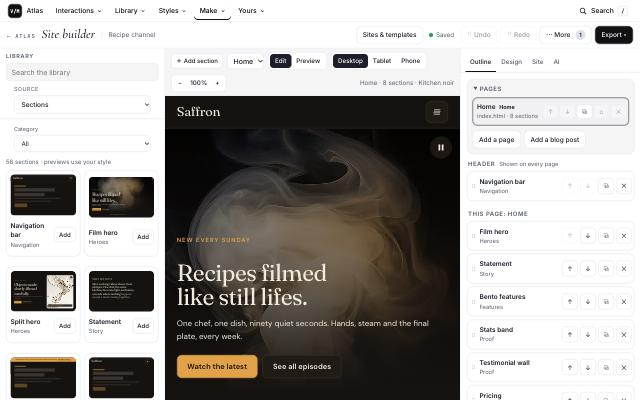
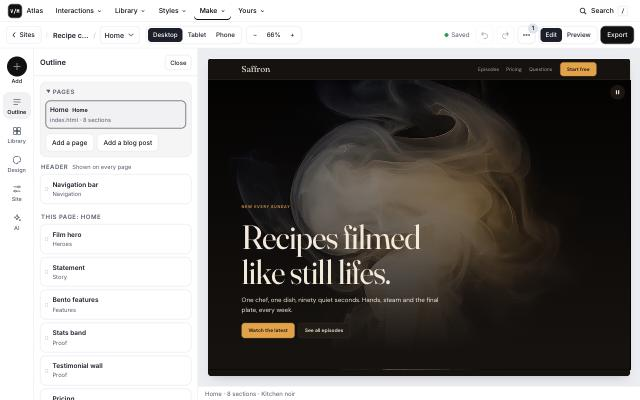
Site builder: desktop editor rebuilt around the page
The phone layout was already page-first; the desktop editor was three fixed columns under
three stacked bars. It now follows the same model. Nothing was removed.

- One top bar: Sites, site name, page picker, widths and zoom, saved, undo, redo, more,
  Edit/Preview, Export
- A rail (Add, Outline, Library, Design, Site, AI) opens one panel at a time; pressing the
  open one closes it
- The selected section's form is its own edit panel: in place of the outline under 1600
  wide, a right-hand column from 1600, a sheet on a phone
- The page is always laid out at its true width (1280 for Desktop) and scaled to fit;
  the zoom buttons set a fixed zoom, clicking the figure returns to fit
- Row buttons show for the row you are on; the status line sits under the page
- New: builder/workbench.css. Audit: tenth pass

diff --git a/site/page-builder.html b/site/page-builder.html
@@ -4,23 +4,24 @@
 <link rel="preconnect" href="https://fonts.googleapis.com"><link rel="preconnect" href="https://fonts.gstatic.com" crossorigin>
 <link rel="stylesheet" href="https://fonts.googleapis.com/css2?family=Inter:wght@400;500;600&family=JetBrains+Mono:wght@400;500&family=Cormorant+Garamond:ital,wght@0,500;1,500&display=swap">
 <link rel="icon" href="assets/favicon.svg" type="image/svg+xml">
-<link rel="stylesheet" href="builder/builder.css"><link rel="stylesheet" href="builder/ux.css">
+<link rel="stylesheet" href="builder/builder.css"><link rel="stylesheet" href="builder/ux.css"><link rel="stylesheet" href="builder/workbench.css">
 <meta property="og:type" content="website"><meta property="og:site_name" content="Visual &amp; Motion Atlas"><meta property="og:title" content="Site builder · Visual & Motion Atlas"><meta property="og:description" content="Build a whole multi-page website from 56 sections, 70 UI components, the interactions shelf, live backgrounds, icon families and theme-kit assets. Start from any of 26 templates or 48 design-system styles, with 82 photographs, then export one HTML file or a ZIP."><meta property="og:url" content="https://motionatlas-ten.vercel.app/page-builder"><meta property="og:image" content="https://motionatlas-ten.vercel.app/assets/og-atlas.jpg"><meta name="twitter:card" content="summary_large_image">
 <link rel="canonical" href="https://motionatlas-ten.vercel.app/page-builder">
 <style id="sbPre">html{--sb-h:calc(44px + env(safe-area-inset-top,0px))}body{padding-top:var(--sb-h)}html:not(.sbReady) body::before{content:"";position:fixed;top:0;left:0;right:0;height:var(--sb-h);background:#fff;border-bottom:1px solid #e8e8ea;z-index:2147483000}@media print{body{padding-top:0}}</style><script src="site-nav-data.js" defer></script><script src="site-bar.js" defer></script>
 </head><body data-pane="page"><noscript><nav id="sbNo" aria-label="Atlas" style="position:fixed;top:0;left:0;right:0;height:44px;box-sizing:border-box;z-index:2147483000;background:#fff;border-bottom:1px solid #e8e8ea;padding:12px 16px;font:500 14px/20px system-ui,sans-serif;white-space:nowrap;overflow:auto"><a style="color:#111;font-weight:700;margin-right:16px" href="atlas.html">Atlas</a><a style="color:#111;margin-right:16px" href="tools.html">Tools</a><a style="color:#111;margin-right:16px" href="atlas.html#browse">Catalogue</a><a style="color:#111" href="atlas.html#projects">My projects</a></nav></noscript>
 <div class="app">
-<header><div class="brandline"><a href="atlas.html" id="backLink">← Atlas</a><h1>Site builder</h1><span class="siteTitle" id="siteTitle" title="Current site"></span></div>
+<header class="wbTop"><div class="wbLeft"><button class="btn wbBack" id="tplBtn" type="button" aria-haspopup="dialog" aria-label="Sites and templates"><svg viewBox="0 0 24 24" width="20" height="20" fill="none" stroke="currentColor" stroke-width="1.7" stroke-linecap="round" stroke-linejoin="round" aria-hidden="true"><path d="M15 6l-6 6 6 6"/></svg><span>Sites</span></button><a href="atlas.html" id="backLink" class="btn wbProj" hidden>← Atlas</a><h1 class="vh">Site builder</h1><span class="siteTitle" id="siteTitle" title="Current site"></span><span class="wbSep" aria-hidden="true">/</span><label class="vh" for="pageSel">Page being edited</label><select id="pageSel" class="pagesel"></select></div>
+ <div class="wbMid"><div class="seg" id="widths" role="group" aria-label="Preview width"></div></div>
  <div class="tools">
-  <button class="btn" id="tplBtn" type="button" aria-haspopup="dialog">Sites &amp; templates</button>
   <span class="savedot" id="saveInd" role="status" aria-live="polite"><i aria-hidden="true"></i><span>Saved</span></span>
-  <button class="btn" id="undoBtn" type="button" aria-keyshortcuts="Control+Z" disabled>↶ Undo</button><button class="btn" id="redoBtn" type="button" aria-keyshortcuts="Control+Shift+Z" disabled>↷ Redo</button>
-  <details class="menu" id="moreMenu"><summary class="btn" aria-label="More: checks, history, shortcuts">⋯ More <b class="badge moreBadge" id="moreBadge" hidden></b></summary><div class="mlist" role="group" aria-label="More">
+  <button class="btn wbIcon" id="undoBtn" type="button" aria-label="Undo" title="Undo" aria-keyshortcuts="Control+Z" disabled><svg viewBox="0 0 24 24" width="20" height="20" fill="none" stroke="currentColor" stroke-width="1.7" stroke-linecap="round" stroke-linejoin="round" aria-hidden="true"><path d="M9 14 4 9l5-5"/><path d="M4 9h10a6 6 0 0 1 0 12h-3"/></svg></button><button class="btn wbIcon" id="redoBtn" type="button" aria-label="Redo" title="Redo" aria-keyshortcuts="Control+Shift+Z" disabled><svg viewBox="0 0 24 24" width="20" height="20" fill="none" stroke="currentColor" stroke-width="1.7" stroke-linecap="round" stroke-linejoin="round" aria-hidden="true"><path d="m15 14 5-5-5-5"/><path d="M20 9H10a6 6 0 0 0 0 12h3"/></svg></button>
+  <details class="menu" id="moreMenu"><summary class="btn wbIcon" aria-label="More: checks, history, shortcuts" title="More"><svg viewBox="0 0 24 24" width="20" height="20" fill="none" stroke="currentColor" stroke-width="1.7" stroke-linecap="round" stroke-linejoin="round" aria-hidden="true"><circle cx="5" cy="12" r="1.3"/><circle cx="12" cy="12" r="1.3"/><circle cx="19" cy="12" r="1.3"/></svg><b class="badge moreBadge" id="moreBadge" hidden></b></summary><div class="mlist" role="group" aria-label="More">
    <button type="button" class="btn" id="chkBtn" aria-label="Page checks"><span>Checks <b class="badge" id="chkBadge">–</b></span><small>Accessibility, SEO and link checks for this page</small></button>
    <button type="button" class="btn" id="histBtn" aria-haspopup="dialog"><span>History</span><small>Earlier versions of this site</small></button>
    <button type="button" class="btn" id="helpBtn" aria-keyshortcuts="?"><span>Keyboard shortcuts</span><small>Press ? any time</small></button>
   </div></details>
-  <details class="menu" id="exportMenu"><summary class="btn primary">Export ▾</summary><div class="mlist" role="group" aria-label="Export">
+  <div class="seg" id="modeSeg" role="group" aria-label="Mode"><button type="button" data-m="edit" aria-pressed="true">Edit</button><button type="button" data-m="view" aria-pressed="false">Preview</button></div>
+  <details class="menu" id="exportMenu"><summary class="btn primary">Export</summary><div class="mlist" role="group" aria-label="Export">
    <p class="mgrp">Download</p>
    <button type="button" id="dlZip"><span>Whole site (.zip)</span><small>Every page and its files, ready to upload</small></button>
    <button type="button" id="dlHtml"><span>This page (.html)</span><small>One file with everything inside it</small></button>
@@ -38,16 +39,24 @@
   </div></details>
  </div></header>
 <nav class="panes" aria-label="Builder panes"><div class="seg" id="panes" role="group" aria-label="Show"><button type="button" data-p="lib" aria-pressed="false">Library</button><button type="button" data-p="page" aria-pressed="true">Page</button><button type="button" data-p="preview" aria-pressed="false">Preview</button></div></nav>
+<nav class="rail" id="rail" aria-label="Editor panels">
+ <button type="button" class="railAdd" id="railAdd" aria-haspopup="dialog" aria-label="Add a section" title="Add a section"><i><svg viewBox="0 0 24 24" width="20" height="20" fill="none" stroke="currentColor" stroke-width="1.7" stroke-linecap="round" stroke-linejoin="round" aria-hidden="true"><path d="M12 5v14M5 12h14"/></svg></i><span>Add</span></button>
+ <button type="button" data-k="outline" aria-pressed="false"><svg viewBox="0 0 24 24" width="20" height="20" fill="none" stroke="currentColor" stroke-width="1.7" stroke-linecap="round" stroke-linejoin="round" aria-hidden="true"><path d="M4 6h16M4 12h16M4 18h10"/></svg><span>Outline</span></button>
+ <button type="button" data-k="lib" aria-pressed="false"><svg viewBox="0 0 24 24" width="20" height="20" fill="none" stroke="currentColor" stroke-width="1.7" stroke-linecap="round" stroke-linejoin="round" aria-hidden="true"><path d="M4 4h7v7H4zM13 4h7v7h-7zM4 13h7v7H4zM13 13h7v7h-7z"/></svg><span>Library</span></button>
+ <button type="button" data-k="style" aria-pressed="false"><svg viewBox="0 0 24 24" width="20" height="20" fill="none" stroke="currentColor" stroke-width="1.7" stroke-linecap="round" stroke-linejoin="round" aria-hidden="true"><path d="M12 3a9 9 0 1 0 0 18c1.5 0 2-1 1.5-2s.2-2.5 2-2.5H18a3 3 0 0 0 3-3A9 9 0 0 0 12 3z"/></svg><span>Design</span></button>
+ <button type="button" data-k="site" aria-pressed="false"><svg viewBox="0 0 24 24" width="20" height="20" fill="none" stroke="currentColor" stroke-width="1.7" stroke-linecap="round" stroke-linejoin="round" aria-hidden="true"><path d="M4 7h10M18 7h2M4 17h2M10 17h10"/><circle cx="16" cy="7" r="2"/><circle cx="8" cy="17" r="2"/></svg><span>Site</span></button>
+ <button type="button" data-k="ai" aria-pressed="false"><svg viewBox="0 0 24 24" width="20" height="20" fill="none" stroke="currentColor" stroke-width="1.7" stroke-linecap="round" stroke-linejoin="round" aria-hidden="true"><path d="M12 4l1.8 4.7 4.7 1.8-4.7 1.8L12 17l-1.8-4.700L5.500 10.500l4.700-1.800z"/><path d="M19 15v4M17 17h4"/></svg><span>AI</span></button>
+</nav>
 <aside class="lib" aria-label="Library">
- <div class="phead"><h2>Library</h2><label class="vh" for="libSearch">Search the library</label><input class="search" id="libSearch" type="search" placeholder="Search the library" autocomplete="off">
+ <div class="phead"><div class="ptitle"><h2>Library</h2><button class="btn small wbClose" id="lClose" type="button" aria-label="Close the panel">Close</button></div><label class="vh" for="libSearch">Search the library</label><input class="search" id="libSearch" type="search" placeholder="Search the library" autocomplete="off">
   <div id="ltabs"></div></div>
  <div class="scroll" id="libScroll"><div id="libList" role="tabpanel"></div><p class="hint" style="margin-top:12px">Press Add, or drag a card onto the page outline or the preview.</p></div>
 </aside>
-<main class="stage" aria-label="Preview"><div class="bar"><button class="btn small" id="addSecBtn" type="button">＋ Add section</button><label class="vh" for="pageSel">Page being edited</label><select id="pageSel" class="pagesel"></select><div class="seg" id="modeSeg" role="group" aria-label="Mode"><button type="button" data-m="edit" aria-pressed="true">Edit</button><button type="button" data-m="view" aria-pressed="false">Preview</button></div><div class="seg" id="widths" role="group" aria-label="Preview width"></div><span class="status" id="status" role="status"></span></div>
+<main class="stage" aria-label="Preview"><div class="bar"><span class="status" id="status" role="status"></span></div>
  <div id="cvTb" class="cvtb" role="toolbar" aria-label="Section tools" hidden></div>
  <div class="frameWrap" id="wrap"><iframe id="pv" title="Live preview of your page"></iframe></div></main>
 <aside class="right" aria-label="Page settings">
- <div class="phead"><div role="tablist" id="rtabs" aria-label="Page settings"></div></div>
+ <div class="phead"><div class="ptitle"><h2 id="rTitle">Outline</h2><button class="btn small wbClose" id="rClose" type="button" aria-label="Close the panel">Close</button></div><div role="tablist" id="rtabs" aria-label="Page settings"></div></div>
  <div class="scroll">
   <section class="rpanel" id="rp-page" role="tabpanel" aria-labelledby="rt-page">
    <section class="selitem" id="selItem" aria-label="Selected item" hidden></section>
@@ -55,6 +64,7 @@
 <div class="sec"><ul id="pgList" class="pgl"></ul><div class="btools"><button class="btn" id="addPage" type="button">Add a page</button><button class="btn" id="addPost" type="button">Add a blog post</button></div></div>
    </details>
    <h3 class="vh">Sections, top to bottom</h3><ol id="ol" aria-label="Sections, top to bottom"></ol>
+   <button class="btn wbAdd" id="addSecBtn" type="button"><svg viewBox="0 0 24 24" width="20" height="20" fill="none" stroke="currentColor" stroke-width="1.7" stroke-linecap="round" stroke-linejoin="round" aria-hidden="true"><path d="M12 5v14M5 12h14"/></svg>Add a section</button>
    <details class="pgbox" id="pgSettings"><summary>This page’s name, address and search settings</summary><div class="pgsb"><div class="sec"><h3>This page</h3>
     <div class="f"><label for="pgName">Page name</label><input id="pgName" maxlength="60"></div>
     <div class="f"><label for="pgSlug">File name</label><input id="pgSlug" maxlength="48" autocapitalize="off" spellcheck="false"><p class="hint">Becomes the address: yoursite.com/<em>file-name</em>. The home page is always index.</p></div>
@@ -66,7 +76,7 @@
     <div class="f"><label for="pgOg">Social image</label><input id="pgOg" list="pbImages" placeholder="Library image or https://… (falls back to the site image)"></div>
     <div class="serp" id="serp" role="group" aria-label="Search result preview"></div></div>
   </div></details>
-   <p class="hint" style="margin-top:10px">Select a section to edit its words; the preview jumps to it, and clicking the preview selects a section. Drag rows to reorder, or focus a name and press Alt + ↑ / ↓. The header and footer are shared by every page.</p>
+   <p class="hint" style="margin-top:10px">Click a section, here or on the page, to edit it. Drag rows to reorder, or press Alt + ↑ / ↓ on a name. The header and footer are shared by every page.</p>
   </section>
   <section class="rpanel" id="rp-style" role="tabpanel" aria-labelledby="rt-style" hidden>
    <div class="sec" id="tkBox"></div>
@@ -109,6 +119,7 @@
   </section>
  </div>
 </aside>
+<aside class="insp" id="insp" aria-label="Selected section" hidden></aside>
 </div>
 <dialog id="picker" class="picker" aria-labelledby="pickTitle"><div class="pkhead"><h2 id="pickTitle">Add a section</h2><label class="vh" for="pickQ">Search sections</label><input class="search" id="pickQ" type="search" placeholder="Search sections: pricing, FAQ, gallery…" autocomplete="off"><button class="btn small" id="pickClose" type="button">Close</button></div><div class="gchips" id="pickChips" role="group" aria-label="Filter sections"></div><p class="lcount" id="pickCount" role="status"></p><div class="pkscroll" id="pickScroll"><ul class="pkgrid" id="pickGrid"></ul></div></dialog>
 <dialog id="pubDlg" class="picker pubdlg" aria-labelledby="pubTitle"><div class="pkhead"><h2 id="pubTitle">Publish</h2><span style="flex:1"></span><button class="btn small" id="pubClose" type="button">Close</button></div><div class="pubb"><p id="pubState" role="status"></p><p id="pubLink"></p><div class="btools"><button class="btn primary" id="pubGo" type="button">Publish</button><button class="btn" id="pubCopy" type="button" hidden>Copy link</button><a class="btn" id="pubOpen" target="_blank" rel="noopener" hidden>Open the site</a><button class="btn" id="pubOff" type="button" hidden>Unpublish</button></div><div id="pubMine" hidden class="hint"><p style="margin:0 0 6px"><strong>Your own font.</strong> The font files are not uploaded. Visitors who do not have it installed will see a fallback font instead.</p><label style="display:flex;gap:8px;align-items:flex-start"><input type="checkbox" id="pubInclFonts"><span>Also publish my font files. A published site is public, so anyone can download them. Only turn this on if your font licence allows web publishing.</span></label></div><p class="hint">Want your own domain? Download the ZIP and deploy it on Vercel, Netlify or GitHub Pages, then add your domain in that host. The README explains it.</p></div></dialog>

diff --git a/site/builder/app.js b/site/builder/app.js
@@ -244,18 +244,28 @@ function outline(){const ol=$('#ol');ol.innerHTML='';
  selPanel();status()}
 /* the Selected item panel: components and interactions get their full settings form pinned at the top of the sidebar */
 let selWas=null;
-function selPanel(){const host=$('#selItem');if(!host)return;const f=open&&findBlk(open),blk=f&&f.blk;
- if(!blk||!(PB.cfg&&PB.cfg.has(blk)&&PB.cfg.schema(blk))){host.hidden=true;host.innerHTML='';selWas=null;return}
- if(host.contains(document.activeElement)&&selWas===blk.uid&&document.activeElement.matches('input,textarea,select'))return;
- host.hidden=false;host.innerHTML='';const top=document.createElement('div');top.className='selhead';top.innerHTML='<h3>Selected item</h3>';const done=document.createElement('button');done.type='button';done.className='btn small';done.textContent='Done';done.title='Close the settings';done.onclick=()=>{open=null;csel=null;outline();hideTb&&hideTb()};top.append(done);host.append(top,PB.cfg.panel(blk));
- if(selWas!==blk.uid){selWas=blk.uid;const sc=host.closest('.scroll');if(sc)sc.scrollTop=0;}}
+function selPanel(){const old=$('#selItem');if(old){old.hidden=true;old.innerHTML=''}
+ const host=$('#insp');if(!host)return;const f=open&&findBlk(open),blk=f&&f.blk;
+ if(!blk){if(!host.hidden||host.innerHTML){host.hidden=true;host.innerHTML=''}selWas=null;delete document.body.dataset.insp;delete document.body.dataset.inspsheet;return}
+ const ae=document.activeElement,inside=host.contains(ae),same=selWas===blk.uid,isCfg=!!(PB.cfg&&PB.cfg.has(blk)&&PB.cfg.schema(blk));
+ /* while someone is typing in the form, leave it alone */
+ if(inside&&same&&ae.matches(isCfg?'input,textarea,select':'input:not([type=checkbox]):not([type=radio]):not([type=range]):not([type=color]),textarea'))return;
+ const FOC='input,select,textarea,button,summary';let idx=-1,st=0,openSet=false;
+ if(same){if(inside)idx=[...host.querySelectorAll(FOC)].indexOf(ae);const sc0=host.querySelector('.scroll');if(sc0)st=sc0.scrollTop;const d0=host.querySelector('details.setd');openSet=!!(d0&&d0.open)}
+ const d=def(blk.id);host.hidden=false;host.innerHTML='';
+ const head=document.createElement('div');head.className='phead ihead';head.innerHTML=`<div class="ptitle"><div class="iname"><h2>${esc(d.name)}</h2><small>${esc(f.kind==='page'?(isX(blk.id)?xLabel(blk):d.group):'Shown on every page')}</small></div><button class="btn small" type="button" id="inspDone">Done</button></div>`;
+ head.querySelector('#inspDone').onclick=()=>{open=null;csel=null;outline();hideTb&&hideTb();toAgent({pb:'clear'})};
+ const sc=document.createElement('div');sc.className='scroll';sc.append(editor(blk));host.append(head,sc);document.body.dataset.insp='1';
+ if(same){sc.scrollTop=st;const d1=host.querySelector('details.setd');if(d1&&openSet)d1.open=true;if(idx>=0){const el=host.querySelectorAll(FOC)[idx];el&&el.focus({preventScroll:true})}}
+ selWas=blk.uid}
+/* open the edit panel for a section (the gear on the page, the section menu) */
+function editSel(uid){if(!findBlk(uid))return;open=uid;document.body.dataset.inspsheet='1';outline();const el=$(`#ol [data-uid="${uid}"]`);el&&el.scrollIntoView({block:'nearest'})}
 function outRow(blk,list,i){const d=def(blk.id);const li=document.createElement('li');li.className='blk'+(open===blk.uid?' open':'');li.dataset.uid=blk.uid;li.draggable=true;
   const sub=isX(blk.id)?xLabel(blk):d.group;
   li.innerHTML=`<div class="bh"><span class="grip" aria-hidden="true">⋮⋮</span><button class="bname" aria-expanded="${open===blk.uid}" aria-keyshortcuts="Alt+ArrowUp Alt+ArrowDown" title="Alt + ↑/↓ moves this section"><b>${esc(d.name)}</b><small>${esc(sub)}</small></button>
    <button class="ib" data-a="up" aria-label="Move ${esc(d.name)} up"${i?'':' disabled'}>↑</button><button class="ib" data-a="down" aria-label="Move ${esc(d.name)} down"${i<list.length-1?'':' disabled'}>↓</button><button class="ib" data-a="dup" aria-label="Duplicate ${esc(d.name)}">⧉</button><button class="ib" data-a="rm" aria-label="Remove ${esc(d.name)}">✕</button></div>`;
-  if(open===blk.uid&&!(PB.cfg&&PB.cfg.has(blk)&&PB.cfg.schema(blk)))li.append(editor(blk));
   const nb=li.querySelector('.bname');
-  nb.onclick=()=>{open=open===blk.uid?null:blk.uid;outline();if(open)scrollPreviewTo(blk.uid);const again=$(`#ol [data-uid="${blk.uid}"] .bname`);again&&again.focus()};
+  nb.onclick=()=>{open=open===blk.uid?null:blk.uid;if(open)document.body.dataset.inspsheet='1';outline();if(open)scrollPreviewTo(blk.uid);const again=$(`#ol [data-uid="${blk.uid}"] .bname`);again&&again.focus()};
   nb.onkeydown=e=>{if(e.altKey&&(e.key==='ArrowUp'||e.key==='ArrowDown')){e.preventDefault();const j=e.key==='ArrowUp'?i-1:i+1;if(j<0||j>=list.length)return;move(list,i,j);say(d.name+' moved to position '+(j+1));const el=$(`#ol [data-uid="${blk.uid}"] .bname`);el&&el.focus()}};
   li.querySelectorAll('.ib').forEach(b=>b.onclick=()=>{const a=b.dataset.a;
    if(a==='rm'){list.splice(i,1);if(open===blk.uid)open=null;commit();outline();render();say('Removed '+d.name+'. Undo brings it back.');const n=$$('#ol .blk')[Math.min(i,$$('#ol .blk').length-1)];(n?n.querySelector('.bname'):$('#libSearch')).focus();return}
@@ -322,7 +332,7 @@ function buildTb(){const f=csel&&findBlk(csel.uid);if(!f||!EDIT){hideTb();return
  const d=def(f.blk.id);tb.innerHTML='';const name=document.createElement('span');name.className='tbn';name.textContent=d.name+(f.kind==='page'?'':' · shared');tb.append(name);
  const L=f.list,i=f.i;
  elGroup(f).forEach(b=>tb.append(b));
- tb.append(tbBtn('↑','Move section up',()=>move(L,i,i-1),i===0),tbBtn('↓','Move section down',()=>move(L,i,i+1),i===L.length-1),tbBtn('⧉','Duplicate section',()=>dupBlk(csel.uid)),tbBtn('✕','Delete section',()=>rmBlk(csel.uid)),tbBtn('⚙','Section settings and words',()=>{open=csel.uid;showPane('page');rtab('page');outline();const el=$(`#ol [data-uid="${csel.uid}"]`);el&&el.scrollIntoView({block:'nearest'})}),tbBtn('＋','Add a section after this one',()=>askAdd(csel.uid,'after')));
+ tb.append(tbBtn('↑','Move section up',()=>move(L,i,i-1),i===0),tbBtn('↓','Move section down',()=>move(L,i,i+1),i===L.length-1),tbBtn('⧉','Duplicate section',()=>dupBlk(csel.uid)),tbBtn('✕','Delete section',()=>rmBlk(csel.uid)),tbBtn('⚙','Section settings and words',()=>editSel(csel.uid)),tbBtn('＋','Add a section after this one',()=>askAdd(csel.uid,'after')));
  return f}
 function placeTb(m){if(!EDIT||!csel||!m){hideTb();return}const f=buildTb();if(!f)return;tb.hidden=false;
  const ir=pv.getBoundingClientRect(),sr=stage.getBoundingClientRect(),r0=m.el||m.sec;if(!r0){hideTb();return}const z=ZOOM,r={left:r0.left*z,top:r0.top*z,width:r0.width*z,height:r0.height*z};if(r.top+r.height<0||r.top>ir.height){hideTb();return}
@@ -647,19 +657,31 @@ function switchTo(id){clearTimeout(typing);commit();site=store.pages[id];store.c
 
 /* ---------- right panel tabs, panes ---------- */
 const RT=[['page','Outline'],['style','Design'],['site','Site'],['ai','AI']];let rtabCur=RT.some(t=>t[0]===ui.rtab)?ui.rtab:'page';
-function rtab(k){if(k==='pages'){k='page';const d=$('#pgSettings');if(d)d.open=true}rtabCur=k;if(k!=='check'){ui.rtab=k;saveUI()}$$('#rtabs [role=tab]').forEach(b=>{const on=b.dataset.t===k;b.setAttribute('aria-selected',on);b.tabIndex=on||(k==='check'&&b.dataset.t==='page')?0:-1});$$('.rpanel').forEach(p=>p.hidden=p.id!=='rp-'+k);if(k==='style')styles();if(k==='page')pagesPanel();if(k==='site')sitePanel();if(k==='check')runCheck();if(k==='ai')aiStatus()}
+function rtab(k){if(k==='pages'){k='page';const d=$('#pgSettings');if(d)d.open=true}rtabCur=k;if(k!=='check'){ui.rtab=k;saveUI()}$$('#rtabs [role=tab]').forEach(b=>{const on=b.dataset.t===k;b.setAttribute('aria-selected',on);b.tabIndex=on||(k==='check'&&b.dataset.t==='page')?0:-1});$$('.rpanel').forEach(p=>p.hidden=p.id!=='rp-'+k);if(k==='style')styles();if(k==='page')pagesPanel();if(k==='site')sitePanel();if(k==='check')runCheck();if(k==='ai')aiStatus();if(document.body.dataset.pane)railSync()}
 $('#rtabs').innerHTML=RT.map(([k,l])=>`<button role="tab" type="button" id="rt-${k}" data-t="${k}" aria-controls="rp-${k}">${l}</button>`).join('');
 $$('#rtabs [role=tab]').forEach((b,i,all)=>{b.onclick=()=>rtab(b.dataset.t);b.onkeydown=e=>{const n=all.length;let j=null;if(e.key==='ArrowRight')j=(i+1)%n;if(e.key==='ArrowLeft')j=(i-1+n)%n;if(j!=null){e.preventDefault();rtab(all[j].dataset.t);all[j].focus()}}});
-function showPane(k){document.body.dataset.pane=k;$$('#panes button').forEach(b=>b.setAttribute('aria-pressed',b.dataset.p===k))}
+function showPane(k){document.body.dataset.pane=k;if(k==='preview')delete document.body.dataset.inspsheet;if(!NARROW.matches){ui.pane=k;saveUI()}$$('#panes button').forEach(b=>b.setAttribute('aria-pressed',b.dataset.p===k));railSync()}
+/* the rail: one panel at a time beside the page; pressing the open one closes it */
+const NARROW=matchMedia('(max-width:980px)'),RAIL={outline:'page',style:'style',site:'site',ai:'ai'},RTITLE={page:'Outline',style:'Design',site:'Site settings',ai:'Write with AI',check:'Checks'};
+function railSync(){const p=document.body.dataset.pane,cur=p==='lib'?'lib':p==='page'?(rtabCur==='page'||rtabCur==='check'?'outline':rtabCur):'';$$('#rail [data-k]').forEach(b=>b.setAttribute('aria-pressed',b.dataset.k===cur));const t=$('#rTitle');if(t)t.textContent=RTITLE[rtabCur]||'Outline'}
+$$('#rail [data-k]').forEach(b=>b.onclick=()=>{const k=b.dataset.k;if(b.getAttribute('aria-pressed')==='true'){showPane('preview');return}if(k==='lib'){showPane('lib');return}rtab(RAIL[k]);showPane('page')});
+{const ra=$('#railAdd');if(ra)ra.onclick=()=>openPicker(csel&&findBlk(csel.uid)?{uid:csel.uid,where:'after'}:null)}
+['#lClose','#rClose'].forEach(q=>{const b=$(q);if(b)b.onclick=()=>{const k=document.body.dataset.pane==='lib'?'lib':rtabCur==='page'||rtabCur==='check'?'outline':rtabCur;showPane('preview');const r=$(`#rail [data-k="${k}"]`);r&&r.focus()}});
 $$('#panes button').forEach(b=>b.onclick=()=>showPane(b.dataset.p));
 const W=[['desk','Desktop','100%'],['tab','Tablet','820px'],['phone','Phone','390px']];
 $('#widths').innerHTML=W.map(([k,l])=>`<button type="button" data-w="${k}" aria-pressed="${k===(ui.w||'desk')}">${l}</button>`).join('');
 function setW(k){ui.w=k;saveUI();const w=W.find(x=>x[0]===k)||W[0];frameWrap.dataset.w=k;pv.style.width=w[2];applyZoom();$$('#widths button').forEach(b=>b.setAttribute('aria-pressed',b.dataset.w===k))}
-function applyZoom(){const z=ZOOM,w=(W.find(x=>x[0]===(ui.w||'desk'))||W[0])[2];frameWrap.classList.toggle('zoomed',z!==1);
+/* Fit (the default): a desktop page is laid out 1280 wide and scaled down to the space there is, so "Desktop" always shows the
+   desktop layout however many panels are open; tablet and phone shrink only when they do not fit. − and + set a fixed zoom. */
+const FITW={desk:1280,tab:820,phone:390};
+function fitZ(){const cs=getComputedStyle(frameWrap),av=frameWrap.clientWidth-parseFloat(cs.paddingLeft)-parseFloat(cs.paddingRight);const need=FITW[ui.w||'desk']||1280;if(!(av>0)||av>=need||NARROW.matches)return 1;return Math.max(.3,Math.floor(av/need*1000)/1000)}
+function applyZoom(){if(ui.fit!==false)ZOOM=fitZ();const z=ZOOM,w=(W.find(x=>x[0]===(ui.w||'desk'))||W[0])[2];frameWrap.classList.toggle('zoomed',z!==1);
  pv.style.maxWidth=z===1?'':'none';pv.style.flex=z===1?'':'none';if(z===1){pv.style.transform='';pv.style.width=w;pv.style.height='';pv.style.transformOrigin='';frameWrap.style.removeProperty('--zh')}
  else{const px=/px$/.test(w)?parseFloat(w):null;pv.style.width=px?px+'px':(100/z)+'%';pv.style.height=(100/z)+'%';pv.style.transformOrigin='top '+(px?'center':'left');pv.style.transform='scale('+z+')'}
- const o=$('#zoomVal');if(o)o.textContent=Math.round(z*100)+'%';placeTb(lastRects)}
-function setZoom(z){ZOOM=Math.max(.4,Math.min(1.5,Math.round(z*20)/20));ui.zoom=ZOOM;saveUI();applyZoom()}
+ const o=$('#zoomVal');if(o){o.textContent=Math.round(z*100)+'%';o.title=ui.fit!==false?'Fitted to the space. − and + set a fixed zoom':'Back to fit'}placeTb(lastRects)}
+function setZoom(z){ZOOM=Math.max(.4,Math.min(1.5,Math.round(z*20)/20));ui.zoom=ZOOM;ui.fit=false;saveUI();applyZoom()}
+function fitZoom(){ui.fit=true;saveUI();applyZoom()}
+if(window.ResizeObserver)new ResizeObserver(()=>{if(ui.fit!==false)applyZoom();else placeTb(lastRects)}).observe(frameWrap);
 $$('#widths button').forEach(b=>b.onclick=()=>setW(b.dataset.w));ZOOM=ui.zoom>=.4&&ui.zoom<=1.5?ui.zoom:1;setW(ui.w||'desk');
 
 /* ---------- export ---------- */
@@ -863,7 +885,7 @@ fetch('backgrounds.js').then(r=>r.text()).then(t=>{const m=t.match(/const FRAG=`
 
 PB.dbg=()=>({hist:hist.map(h=>JSON.parse(h).blocks.length),fut:fut.length,last:JSON.parse(lastSnap).blocks.length,now:page.blocks.length});
 /* ---------- hooks for builder/ux.js ---------- */
-PB.app={saveToProjects,hasProject,setZoom,get zoom(){return ZOOM},addBlockAfter:(id,v,uid,where,extra)=>{addTarget={uid,where:where||'after'};return addBlock(id,v,null,extra)},get site(){return site},get store(){return store},get curId(){return curId},get csel(){return csel},get open(){return open},set open(v){open=v},get first(){return !persistedOnce&&!hasSaved},
+PB.app={saveToProjects,hasProject,setZoom,fitZoom,editSel,get zoom(){return ZOOM},addBlockAfter:(id,v,uid,where,extra)=>{addTarget={uid,where:where||'after'};return addBlock(id,v,null,extra)},get site(){return site},get store(){return store},get curId(){return curId},get csel(){return csel},get open(){return open},set open(v){open=v},get first(){return !persistedOnce&&!hasSaved},
  def,B,isX,uidGen,clone,addBlock,render,commit,commitSoon,outline,refresh,say,switchTo,findBlk,goPage,openPicker,siteChanged,showPane,rtab,persist,saved,curPage,blank,S,TEMPLATES,siteFromTemplate,aiSiteGo,get aiOn(){return aiOn},aiStatus,dupBlk,rmBlk,move,toAgent,compose,assemble,swapA,thumbHTML,thumbW,mountThumbs,fieldsOf,val,vals,undo,redo,xLabel,setW,setMode,get EDIT(){return EDIT},status,histSnapshot:()=>lastSnap,restoreSnap:s=>{clearTimeout(typing);commit();hist.push(lastSnap);fut=[];restore(s);histUI()},UI:ui,saveUI,pv,runCheck,libraryRedraw:()=>library(),copy,dl,setS,pickDraw:()=>pickDraw(),selectBlock:uid=>{const f=findBlk(uid);if(!f)return;csel={uid,kind:'section'};open=uid;outline();toAgent({pb:'reselect',uid,kind:'section'});scrollPreviewTo(uid)},clearSel:()=>{csel=null;hideTb();toAgent({pb:'clear'})}};
 /* ---------- boot ---------- */
 try{const CLX=PB.src.CL();if(CLX){const st=document.createElement('style');st.textContent=CLX.css();document.head.append(st)}}catch(e){}

diff --git a/site/builder/workbench.css b/site/builder/workbench.css
@@ -1,0 +1,113 @@
+/* Site builder workbench (loaded after builder.css and ux.css).
+   One top bar. On a wide screen: a rail, one panel at a time beside it, the page, and an edit panel that appears for the
+   selected section. On a phone the page fills the screen and the same panels are sheets (see ux.css).
+   body[data-pane] = lib | page | preview picks the panel; body[data-insp] is set while a section is being edited. */
+
+/* ---------- top bar ---------- */
+header.wbTop{display:flex;align-items:center;gap:8px 12px;flex-wrap:nowrap;padding:8px 12px;min-height:52px}
+.wbLeft{display:flex;align-items:center;gap:8px;min-width:0;flex:1 1 0;overflow:hidden}
+.wbLeft>*{flex:none}
+.wbLeft .siteTitle{flex:0 1 auto}
+.wbMid{display:flex;align-items:center;gap:8px;flex:0 0 auto}
+.wbTop .tools{flex:1 0 auto;justify-content:flex-end;flex-wrap:nowrap}
+.wbBack{padding:0 12px 0 6px;gap:2px;flex:none}
+.wbBack svg{width:18px;height:18px}
+.wbTop .siteTitle{font-weight:600;font-size:14px;color:var(--ink);max-width:240px;min-width:0}
+.wbSep{color:#B9BECB}
+.wbTop .pagesel{min-height:36px;max-width:200px;min-width:0}
+.wbIcon{width:36px;padding:0;position:relative;flex:none}
+.wbIcon svg{width:18px;height:18px}
+.wbIcon:disabled{opacity:.4}
+.wbIcon .moreBadge{position:absolute;top:-6px;right:-6px}
+.wbTop .seg button{min-height:28px}
+.wbTop #modeSeg{flex:none}
+.wbTop .savedot{flex:none}
+
+/* ---------- panel titles ---------- */
+.ptitle{display:flex;align-items:center;justify-content:space-between;gap:8px;min-height:32px}
+.ptitle h2{margin:0;font:600 15px/1.2 Inter,system-ui,sans-serif;letter-spacing:0;text-transform:none;color:var(--ink)}
+.iname{display:grid;gap:2px;min-width:0}
+.iname small{color:var(--mute);font-size:12px}
+.wbAdd{width:100%;margin-top:10px;min-height:44px;border-style:dashed;color:var(--mute)}
+.wbAdd:hover{color:var(--ink);border-color:var(--ink)}
+.wbAdd svg{width:16px;height:16px}
+
+/* ---------- the edit panel ---------- */
+.rail,.insp{display:none}
+.insp .ihead{padding:12px}
+.insp .scroll{padding:12px}
+.insp .bb{padding:0}
+
+/* ---------- wide screens ---------- */
+@media (min-width:981px){
+ .app{grid-template-columns:68px auto minmax(0,1fr) auto;grid-template-rows:auto minmax(0,1fr)}
+ header.wbTop{grid-column:1/-1}
+ .rail{grid-column:1;grid-row:2;display:flex;flex-direction:column;align-items:center;gap:4px;padding:10px 0;background:var(--panel);border-right:1px solid var(--hair);overflow-y:auto;scrollbar-width:none}
+ .rail button{width:56px;min-height:54px;display:grid;justify-items:center;align-content:center;gap:4px;padding:6px 0;border:0;border-radius:12px;background:none;color:var(--mute);font:500 11px/1 Inter,system-ui,sans-serif;cursor:pointer}
+ .rail button:hover{background:var(--soft);color:var(--ink)}
+ .rail button[aria-pressed=true]{background:var(--sel);color:var(--ink);font-weight:600}
+ .rail button:focus-visible{outline:2px solid var(--ink);outline-offset:-2px}
+ .rail .railAdd{margin-bottom:6px;color:var(--ink)}
+ .rail .railAdd i{display:grid;place-items:center;width:40px;height:40px;border-radius:50%;background:var(--accent);color:var(--accent-ink)}
+ .rail .railAdd:hover{background:none}
+ .rail .railAdd:hover i{transform:scale(1.05)}
+ .lib,.right{grid-column:2;grid-row:2;width:328px;display:none;border:0;border-right:1px solid var(--hair)}
+ body[data-pane=lib] .lib,body[data-pane=page] .right{display:flex}
+ .stage{grid-column:3;grid-row:2}
+ .insp{grid-column:4;grid-row:2;width:340px;display:flex;flex-direction:column;min-height:0;background:var(--panel);border-left:1px solid var(--hair)}
+ .insp[hidden]{display:none}
+ /* the rail replaces the tab row */
+ #rtabs{display:none}
+ .right .phead,.lib .phead{padding:12px 12px 10px}
+ /* the page sits on a plain surface */
+ .frameWrap{background:#ECEDF1;padding:20px}
+ .frameWrap iframe{border-radius:10px;box-shadow:0 1px 2px rgba(16,24,40,.06),0 14px 34px -14px rgba(16,24,40,.22)}
+ /* the line under the page says where you are */
+ .stage .bar{order:3;border-top:1px solid var(--hair);border-bottom:0;background:var(--panel);padding:4px 14px;min-height:28px}
+ .stage .bar .status{margin:0;text-align:left;flex:1 1 auto;font-size:12px}
+}
+/* under 1600 wide there is room for one panel beside the page: editing a section drills into the same place as the outline,
+   and Done goes back. From 1600 the edit panel has its own column on the right. */
+@media (min-width:981px) and (max-width:1599px){
+ body[data-insp] .lib,body[data-insp] .right{display:none!important}
+ .insp{grid-column:2;width:328px;border-left:0;border-right:1px solid var(--hair)}
+}
+/* the scaled page always fits its frame, so the frame itself never scrolls */
+.frameWrap.zoomed{overflow:hidden;overflow:clip}
+/* section rows: the move, copy and delete buttons show for the row you are on */
+@media (min-width:981px) and (hover:hover){
+ #ol .blk .ib{opacity:0;transition:opacity .12s}
+ #ol .blk:hover .ib,#ol .blk:focus-within .ib,#ol .blk.open .ib{opacity:1}
+ #ol .blk .ib:disabled{opacity:0}
+ #ol .blk:hover .ib:disabled,#ol .blk:focus-within .ib:disabled,#ol .blk.open .ib:disabled{opacity:.35}
+}
+@media (min-width:981px) and (hover:hover){
+ .pgrow .pgact{display:none}
+ .pgrow:hover .pgact,.pgrow:focus-within .pgact{display:flex}
+}
+#ol .blk.open{border-color:var(--ink);box-shadow:0 0 0 1px var(--ink)}
+/* library cards */
+.lc:hover{border-color:var(--ink)}
+.lgrid.tiles .lc b,.lgrid.comp .lc b{display:block;white-space:nowrap;overflow:hidden;text-overflow:ellipsis}
+
+/* small laptops: the saved mark is a dot, the site name gives way first */
+@media (min-width:981px) and (max-width:1240px){
+ .wbTop .savedot span{position:absolute;width:1px;height:1px;overflow:hidden;clip:rect(0 0 0 0)}
+ .wbTop .siteTitle{max-width:130px}
+ .wbTop .tools{flex:0 0 auto}
+}
+/* ---------- phones and narrow screens ---------- */
+@media (max-width:980px){
+ header.wbTop{flex-wrap:wrap;padding:8px 12px}
+ .wbLeft{flex:1 1 100%}
+ .wbTop .siteTitle{flex:1 1 auto}
+ .wbMid #widths{display:none}
+ .wbTop .tools{flex:1 1 0;min-width:0;overflow-x:auto;scrollbar-width:none;justify-content:flex-end}
+ .wbLeft{overflow:visible}
+ .wbTop .tools::-webkit-scrollbar{display:none}
+ .stage .bar{display:none}
+ .lib .ptitle,.right .ptitle{display:none}
+ .insp{position:fixed;left:0;right:0;bottom:calc(56px + env(safe-area-inset-bottom));height:min(74dvh,640px);z-index:72;flex-direction:column;min-height:0;background:var(--panel);border-radius:18px 18px 0 0;box-shadow:0 -18px 50px -18px rgba(20,22,34,.45)}
+ body[data-inspsheet] .insp:not([hidden]){display:flex}
+}
+@media (prefers-reduced-motion:reduce){.rail .railAdd:hover i{transform:none}#ol .blk .ib{transition:none}}

diff --git a/site/builder/ux.js b/site/builder/ux.js
@@ -13,7 +13,7 @@ function mk(tag,cls,html){const e=document.createElement(tag);if(cls)e.className
 
 /* ---------- header: back link, site title ---------- */
 function header(){const a=$('#backLink'),fromProj=/[?&]site=/.test(location.search)||/projects/.test(document.referrer);
- if(a&&fromProj){a.textContent='← My projects';a.href='atlas.html#projects'}
+ if(a&&fromProj){a.textContent='← My projects';a.href='atlas.html#projects';a.hidden=false}
  const t=$('#siteTitle');if(t)t.textContent=A.site.name||A.site.brand||''}
 const prevSwitch=A.onSwitch;A.onSwitch=()=>{header();if(prevSwitch)prevSwitch()};
 
@@ -43,7 +43,7 @@ $('#stClose').onclick=()=>dlg.close();
 $('#stBack').onclick=()=>{view='home';draw()};
 function openStart(v){view=v||'home';draw();if(!dlg.open)dlg.showModal();const f=$('#stBody button,#stBody textarea');f&&f.focus()}
 UX.openStart=openStart;
-{const tb=$('#tplBtn');if(tb&&matchMedia('(max-width:700px)').matches)tb.textContent='Templates'}$('#tplBtn').onclick=()=>openStart('home');$('#openStart')&&($('#openStart').onclick=()=>openStart('home'));
+$('#tplBtn').onclick=()=>openStart('home');$('#openStart')&&($('#openStart').onclick=()=>openStart('home'));
 function sitesSorted(){return Object.values(A.store.pages).sort((a,b)=>(b.updated||0)-(a.updated||0))}
 function draw(){const body=$('#stBody'),back=$('#stBack');back.hidden=view==='home';
  $('#stTitle').textContent={home:'Site builder',templates:'Templates',detail:'Template preview',ai:'Describe your site',brand:'Use a brand kit'}[view];
@@ -205,7 +205,7 @@ function menuFor(uid,x,y){const f=A.findBlk(uid);if(!f)return;const d=A.def(f.bl
  menuEl.onkeydown=e=>{const j=bs.indexOf(document.activeElement);if(e.key==='ArrowDown'){e.preventDefault();bs[(j+1)%bs.length].focus()}else if(e.key==='ArrowUp'){e.preventDefault();bs[(j-1+bs.length)%bs.length].focus()}else if(e.key==='Escape'||e.key==='Tab'){e.preventDefault();closeMenu()}};
  menuEl.querySelectorAll('[data-k]').forEach(b=>b.onclick=()=>{const k=b.dataset.k;closeMenu();act(k,uid)})}
 function act(k,uid){const f=A.findBlk(uid);if(!f)return;
- if(k==='edit'){A.open=uid;A.showPane('page');A.rtab('page');A.outline();const el=$(`#ol [data-uid="${uid}"]`);el&&el.scrollIntoView({block:'nearest'})}
+ if(k==='edit')A.editSel(uid);
  else if(k==='add')A.openPicker({uid,where:'after'});
  else if(k==='dup')A.dupBlk(uid);else if(k==='copy')copyBlk(uid);else if(k==='paste')pasteBlk(uid);
  else if(k==='up')A.move(f.list,f.i,f.i-1);else if(k==='down')A.move(f.list,f.i,f.i+1);
@@ -250,7 +250,7 @@ document.addEventListener('keydown',e=>{const t=document.activeElement,inField=/
 addEventListener('message',e=>{if(e.source!==A.pv.contentWindow||!e.data)return;if(e.data.pb==='empty')A.openPicker(null);else if(e.data.pb==='emptyTpl')openStart('templates')});
 /* ---------- zoom control ---------- */
 {const z=mk('div','seg',`<button type="button" id="zoomOut" aria-label="Zoom out">−</button><output id="zoomVal" aria-live="polite">100%</output><button type="button" id="zoomIn" aria-label="Zoom in">+</button>`);z.id='zoomSeg';z.setAttribute('role','group');z.setAttribute('aria-label','Zoom');$('#widths').after(z);
- $('#zoomOut').onclick=()=>A.setZoom(A.zoom-.1);$('#zoomIn').onclick=()=>A.setZoom(A.zoom+.1);$('#zoomVal').onclick=()=>A.setZoom(1);$('#zoomVal').title='Reset zoom';$('#zoomVal').textContent=Math.round(A.zoom*100)+'%';
+ $('#zoomOut').onclick=()=>A.setZoom(A.zoom-.1);$('#zoomIn').onclick=()=>A.setZoom(A.zoom+.1);$('#zoomVal').onclick=()=>A.fitZoom();$('#zoomVal').textContent=Math.round(A.zoom*100)+'%';
  $('#wrap').addEventListener('wheel',e=>{if(e.ctrlKey){e.preventDefault();A.setZoom(A.zoom+(e.deltaY<0?.1:-.1))}},{passive:false})}
 
 /* ---------- drag a library card onto the canvas, with a drop line ---------- */

diff --git a/site/sw.js b/site/sw.js
@@ -1,7 +1,7 @@
 /* Visual & Motion Atlas service worker: the atlas keeps working offline.
    Same-origin GETs are served from cache when present and refreshed in the background;
    pages fall back to the cached shell when the network is down. Video is never cached. */
-const CACHE='atlas-v176';
+const CACHE='atlas-v177';
 const SHELL=['index.html','atlas.html','tools.html','motion-graphics.html','app-interfaces.html','tool-themes.js','app-screens/manifest.js','motiongfx/templates.js','motiongfx/studio.js','tools.css','tools-data.js','site-nav-data.js','site-bar.js','counts.json','assets/favicon.svg','lazy-bg.js','app.css','home.css','atlas-theme.css','atlas-enhance.css','atlas-nav.css','atlas-nav.js','component-lab.css','effects-lab.css','motion-lab.css','new-styles.css','atlas-features.css','specimen-films.css','live-sims.css','atlas-share.css','atlas-explore.css','atlas-tours.css','atlas-refine.css','atlas-cards.css','studio-tabs.js','atlas-pager.js','motion-light.css','infographic-studio.html','infographic/studio.js','system-previews.css','art-references.js','art-references.css','art-references.json','backgrounds.js','backgrounds.css','showcase.js','showcase.css','studio-river.js','studio-river.css','app.js','home.js','hero-scenes.js','atlas-themes.js','component-lab.js','effects-lab.js','motion-lab.js','new-styles.js','atlas-features.js','specimen-films.js','live-sims.js','atlas-share.js','atlas-explore.js','atlas-tours.js','atlas-refine.js','system-previews.js','atlas-enhance.js','catalogue.json','expansion.json','content.json'];
 self.addEventListener('install',e=>{e.waitUntil(caches.open(CACHE).then(c=>c.addAll(SHELL).catch(()=>{})).then(()=>self.skipWaiting()));});
 self.addEventListener('activate',e=>{e.waitUntil(caches.keys().then(k=>Promise.all(k.filter(x=>x!==CACHE).map(x=>caches.delete(x)))).then(()=>self.clients.claim()));});

diff --git a/docs/site-audit-2026-11-13.md b/docs/site-audit-2026-11-13.md
@@ -12,6 +12,23 @@ states, the serverless API, and the project's own Playwright gate.
 heading order, missing alt text, sideways scroll, text under 11 px, fonts, corner radii and page background. Console
 errors were attributed per page. Suspicious readings were checked by eye before being reported.
 
+## Tenth pass: site builder editor rebuilt (15 November)
+
+Asked for: "the site builder needs a complete overhaul". Used first at 1440 by 900 and at 390 by 844. The phone layout was already page-first (page, bottom bar, sheets); the desktop editor was three fixed columns under three stacked bars. The desktop editor now follows the phone's model. No function was removed.
+
+| | Before | After |
+|---|---|---|
+| Bars above the page | Site bar, builder header, toolbar, status line: the page began 175px down | Site bar and one top bar: the page begins 117px down. The status line sits under the page |
+| "Desktop" preview at 1440 wide | 750px wide, so it showed the tablet layout | Always laid out 1280 wide and scaled to the space (78% with a panel open, 100% with none). − and + set a fixed zoom; clicking the figure returns to fit |
+| Side panels | Library (330px) and outline (360px) always open | A rail (Add, Outline, Library, Design, Site, AI) opens one 328px panel at a time; pressing it again closes it |
+| Editing a section | The form unfolded inside the outline list | Its own edit panel: the same place as the outline under 1600 wide (Done goes back), a right-hand column from 1600; on a phone, a sheet |
+| Section and page rows | Four or five icon buttons on every row | Shown for the row you are on (hover or keyboard focus); always shown on touch |
+| Top bar | "Sites & templates", Saved, Undo, Redo, More as text buttons; page picker and Edit/Preview in a second bar | Sites, site name, page picker, device widths and zoom, Saved, undo, redo, more, Edit/Preview, Export in one row |
+
+Checked with a script in Chrome at 1024, 1100, 1440 and 1680 wide and at 390 and 820: clicking the page opens the edit panel; typing keeps the field and updates the page; a dropdown change keeps focus; section settings stay open; delete, undo, Done, Checks, Preview mode, the three widths and zoom; a UI component and an interaction open their settings; the phone edit sheet opens and closes. No script errors; smoke test clear at both sizes.
+
+Not done: `tools/site-builder-test.mjs` (the long Playwright suite) was not run, as Playwright is not installed; it clicks `#rt-page`, which is now hidden on wide screens, so that step needs updating. The start screen, the section picker and the templates themselves are unchanged. Not looked at in Safari.
+
 ## Ninth pass: Safari (15 November)
 
 Everything before this was checked in Chrome only. This pass ran the same checks in Safari 27.2 on the Mac: all 38 pages as real page loads, the same pages at phone width, and all 141 demos, with Chrome run alongside for comparison. There is no iPhone simulator on this Mac (Xcode is not installed), so iPhone Safari itself is still untested.
